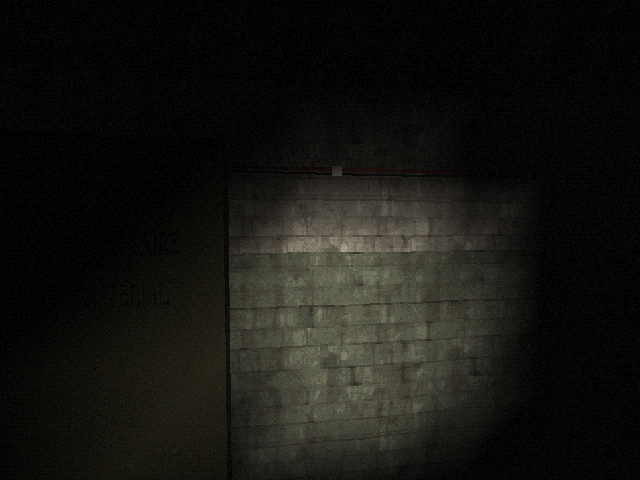
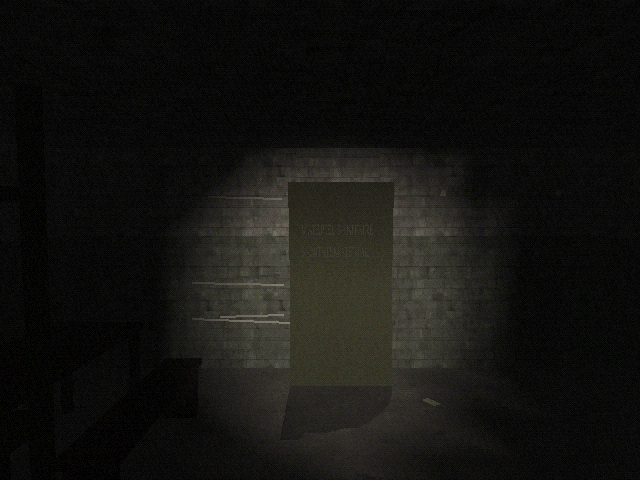
Put the P4 clue where the camera looks and let daylight into the fort
Fresh scrapes on the dormitory's end wall, where the cupboard rolls aside, show at eye level. Looking at the cupboard now names the scrapes and leads straight into the swept dust, so the player no longer has to find the floor hotspot. By day the fort's ambient is brighter, so walls show past the torch circle on day 2 and night 3 stays darker.

Changed region(s): [[0.2812, 0.3125, 0.8125, 0.9688], [0.1562, 0.7188, 0.3125, 1.0]]

diff --git a/src/levels/bunker_interior/index.ts b/src/levels/bunker_interior/index.ts
@@ -58,7 +58,8 @@ const openings: Opening[] = [
 const atmosphere: Record<TimeOfDay, Atmosphere> = {
   day: {
     fog: { color: 0x0a0b0b, near: 1, far: 14, density: 0.06, wisps: 0.15 },
-    ambient: 0x0c0d0d,
+    // Grey daylight from the entrance and the firing slit, so the day visit reads safer than night 3.
+    ambient: 0x242625,
     saturation: 0.6,
     flashlight: true,
   },
@@ -394,6 +395,17 @@ function dormitory(kit: LevelKit, ctx: SceneContext, phase: StoryPhase): Kp3Door
 
   // The dust is thick everywhere except a quarter circle in front of the cupboard.
   kit.mesh(new CircleGeometry(1, 8, Math.PI, Math.PI / 2).rotateX(-Math.PI / 2)).texture('concrete_floor', { tile: 1 }).color(0x5c5a54).at(11.5, 0.004, -31.5);
+  // Tank controls can't look down at the dust, so the clue is also at eye level: scrapes on the end
+  // wall where the cupboard rolls aside.
+  [
+    [0.52, 1.1, -32.05, 0.04],
+    [0.58, 0.7, -31.95, -0.03],
+    [0.93, 1.0, -32.1, 0.02],
+    [1.01, 0.45, -31.85, -0.05],
+    [1.86, 0.8, -32.0, 0.03],
+  ].forEach(([y, d, z, tilt]) => {
+    kit.box({ w: 0.01, h: 0.012, d: d! }).color(0x76736a).at(12 - 0.005, y!, z!).object.rotation.x = tilt!;
+  });
 
   const kp3 = kp3Door(kit, ctx, phase);
   const aside = ctx.state.hasFlag('found_hidden_door') && !ctx.state.hasFlag('cupboard_restored');
@@ -419,7 +431,11 @@ function dormitory(kit: LevelKit, ctx: SceneContext, phase: StoryPhase): Kp3Door
       radius: 0.6,
       enabled: resting(CUPBOARD.z),
       onInteract: async () => {
-        if (!ctx.state.hasFlag('looked_at_dust')) return playNode(ctx, 'fort_cupboard');
+        // Looking at the cupboard draws the eye down to the swept dust, which the camera can't see.
+        if (!ctx.state.hasFlag('looked_at_dust')) {
+          await playNode(ctx, 'fort_cupboard');
+          return playNode(ctx, 'fort_dust');
+        }
         target = CUPBOARD_ASIDE;
         if (ctx.state.hasFlag('found_hidden_door')) return;
         fire('bun2_cupboard_screech');

diff --git a/src/content/dialogues/fort.ts b/src/content/dialogues/fort.ts
@@ -118,7 +118,10 @@ export const nodes = {
   },
   fort_cupboard: {
     if: { notFlag: 'looked_at_dust' },
-    lines: ['A medical supplies cupboard. Empty except for a roll of yellowed bandages.'],
+    lines: [
+      'A medical supplies cupboard. Empty except for a roll of yellowed bandages.',
+      'Fresh scratches in the wall beside it, pale in the gray concrete. Something heavy rubbed along here. I look down.',
+    ],
   },
   fort_dust: {
     if: { notFlag: 'looked_at_dust' },
